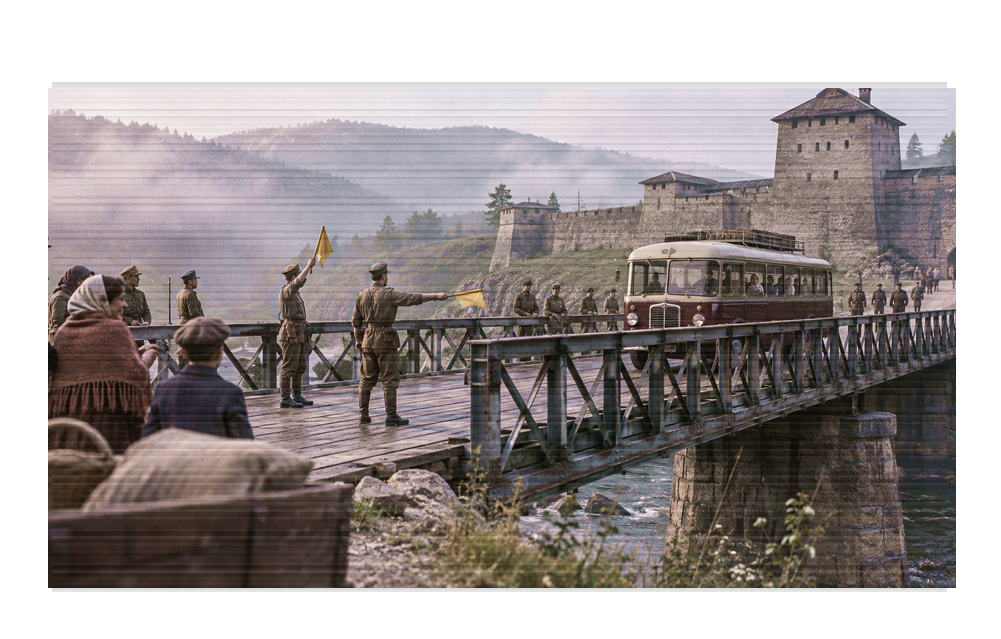
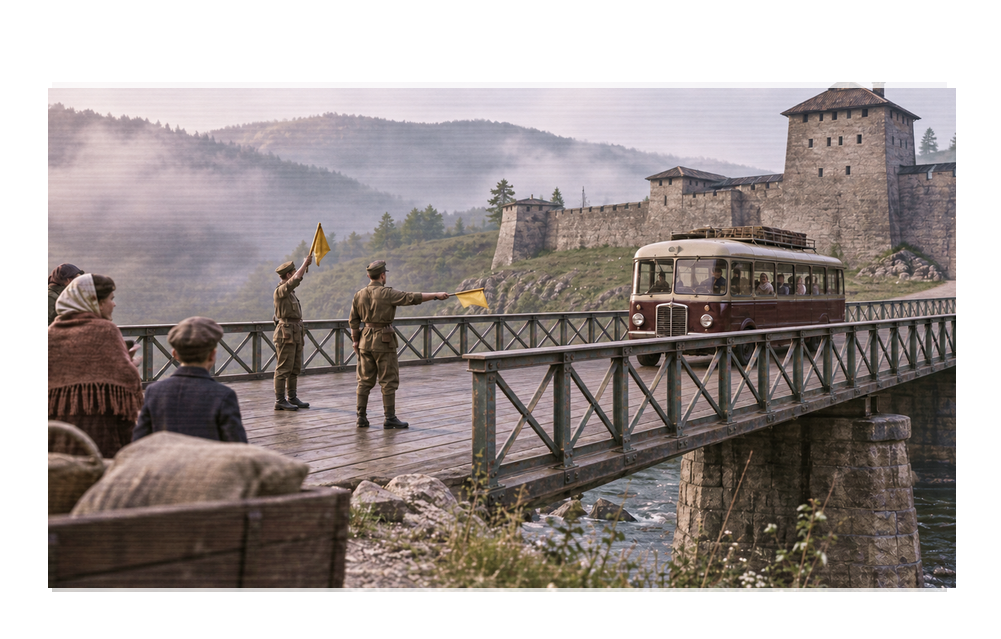
Update southern VPs and Veyran artwork
Increase Damir's victory points and add three victory-point locations to state 70, updating the state builder and tests. Refresh the West Veyran superevent artwork.

diff --git a/tools/tests/test_validate_adiscord_new_states.py b/tools/tests/test_validate_adiscord_new_states.py
@@ -856,7 +856,7 @@ class DamirTransferTests(unittest.TestCase):
         self.assertIn("owner = EFL", source)
         self.assertIn("add_core_of = EFL", source)
         self.assertNotIn("KDR", source)
-        self.assertRegex(source, r"victory_points\s*=\s*\{\s*16722\s+3\s*\}")
+        self.assertRegex(source, r"victory_points\s*=\s*\{\s*16722\s+15\s*\}")
         self.assertRegex(source, r"victory_points\s*=\s*\{\s*16743\s+1\s*\}")
         self.assertEqual(builder.REGIONAL_SETTLEMENTS[240], ((16743, 1, "Нижний Дамир"),))
         for path, expected in builder.state_metadata_plan({240}).items():

diff --git a/tools/builders/build_adiscord_new_states.py b/tools/builders/build_adiscord_new_states.py
@@ -1209,7 +1209,7 @@ NAM_LEGACY_VICTORY_POINTS = {
         (16893, 25), (16883, 5), (16886, 5), (16889, 5), (16894, 5),
         (16888, 5),
     ),
-    70: ((2986, 15),),
+    70: ((2986, 15), (1198, 10), (16900, 10), (16901, 10)),
     723: ((6495, 10),),
     724: ((6796, 5),),
     725: ((259, 10),),
